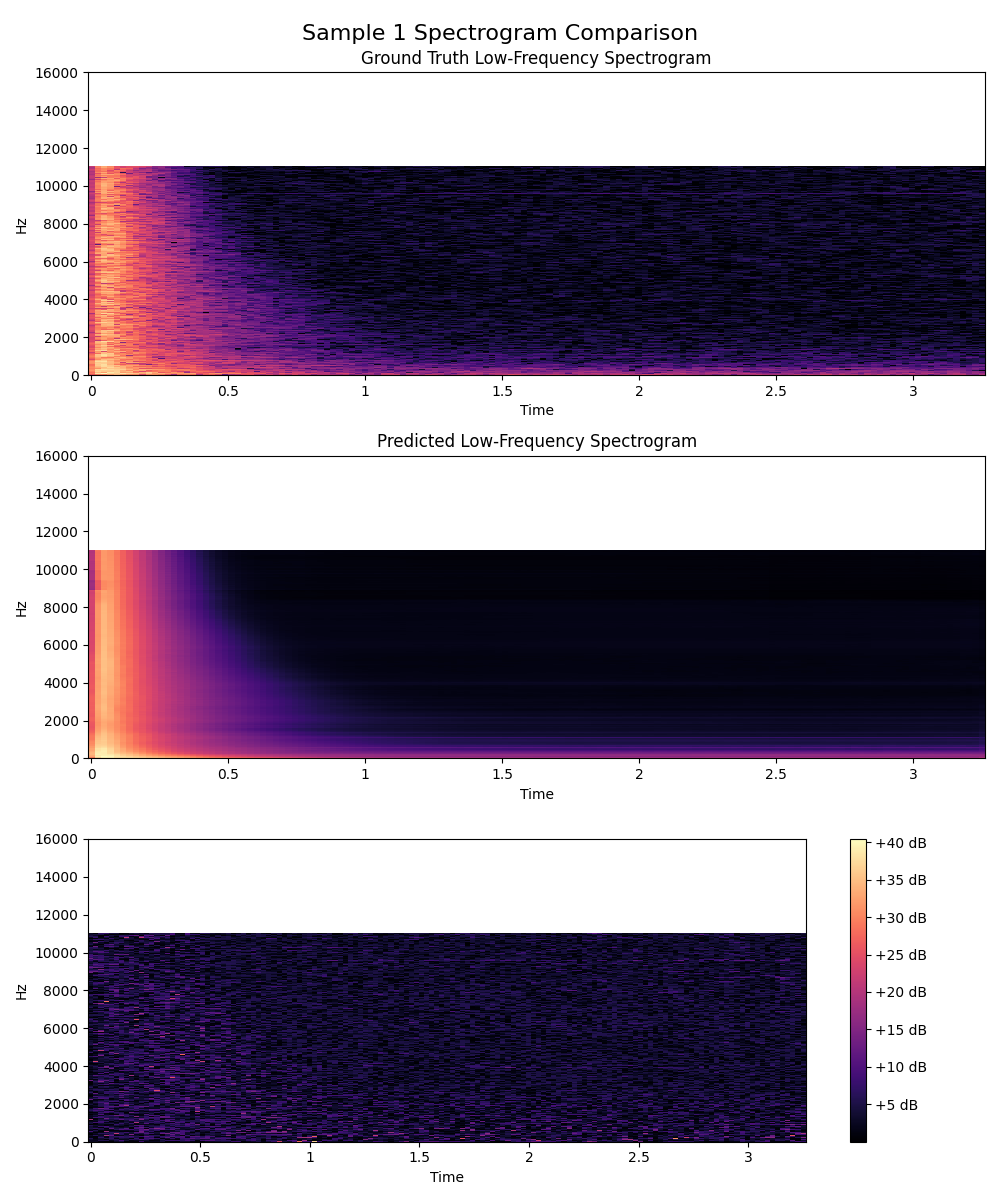
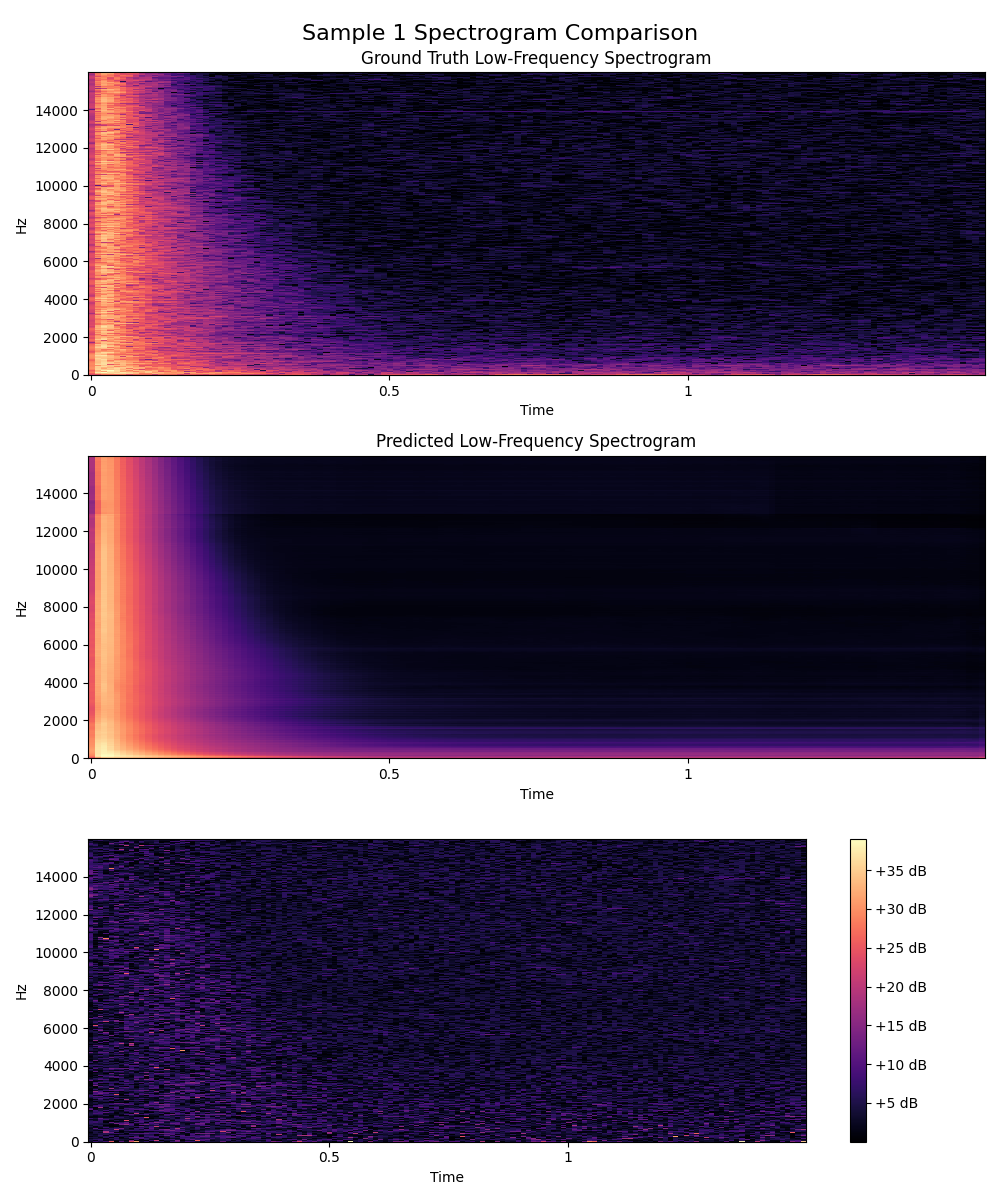
Fix output image size

diff --git a/test_single_visualization.py b/test_single_visualization.py
@@ -1,0 +1,121 @@
+import os
+import numpy as np
+import matplotlib.pyplot as plt
+import librosa
+import librosa.display
+import sys
+
+# --- 1. 配置 ---
+# 包含 '000036' 子文件夹的根目录
+BASE_DIR = '/home/jiayangli/Downloads/raf_dataset/archived/EmptyRoom/data'
+
+# ▼▼▼ 目标文件夹 ▼▼▼
+TARGET_FOLDER_NAME = '042735'
+
+# 输入文件名
+LOW_FREQ_FILENAME = 'low_freq_data.npy'
+HIGH_FREQ_FILENAME = 'high_freq_data.npy'
+
+# 新的输出文件名
+LOW_FREQ_OUTPUT_IMG = 'low_freq_spectrogram.png'
+HIGH_FREQ_OUTPUT_IMG = 'high_freq_spectrogram.png'
+
+# --- 2. 频谱图参数 (必须与 convert_spectrogram.py 保持一致) ---
+SAMPLE_RATE = 48000
+N_FFT = 2048
+HOP_LENGTH = 512
+SPLIT_FREQ_HZ = 16000
+
+# --- 3. 预先计算频率坐标轴 (关键！) ---
+print("Calculating frequency bins...")
+FREQS = librosa.fft_frequencies(sr=SAMPLE_RATE, n_fft=N_FFT)
+# 找到分割点
+SPLIT_INDEX = np.argmin(np.abs(FREQS - SPLIT_FREQ_HZ))
+
+# 为两个图分别创建坐标
+LOW_FREQ_COORDS = FREQS[:SPLIT_INDEX]
+HIGH_FREQ_COORDS = FREQS[SPLIT_INDEX:]
+print(f"Data split at index {SPLIT_INDEX} (~{FREQS[SPLIT_INDEX]:.0f} Hz)")
+
+def process_folder(folder_path):
+    """
+    在单个文件夹中加载 .npy 文件, 并为每个文件保存一张图像。
+    """
+    # 定义所有文件的路径
+    low_freq_path = os.path.join(folder_path, LOW_FREQ_FILENAME)
+    high_freq_path = os.path.join(folder_path, HIGH_FREQ_FILENAME)
+    low_output_path = os.path.join(folder_path, LOW_FREQ_OUTPUT_IMG)
+    high_output_path = os.path.join(folder_path, HIGH_FREQ_OUTPUT_IMG)
+
+    try:
+        # --- 检查文件 ---
+        if not (os.path.exists(low_freq_path) and os.path.exists(high_freq_path)):
+            print(f"Error: Input files not found in {folder_path}")
+            return False
+
+        # --- 绘制并保存 低频图 ---
+        print(f"Processing {LOW_FREQ_FILENAME}...")
+        low_data = np.load(low_freq_path)
+        
+        plt.figure(figsize=(10, 4))
+        librosa.display.specshow(low_data, 
+                                 y_coords=LOW_FREQ_COORDS,
+                                 y_axis='hz', 
+                                 x_axis='time',
+                                 sr=SAMPLE_RATE, 
+                                 hop_length=HOP_LENGTH)
+        
+        plt.colorbar(format='%+2.0f dB')
+        plt.title(f'Low Freq (0 - {SPLIT_FREQ_HZ/1000:.0f}kHz): {os.path.basename(folder_path)}')
+        plt.tight_layout()
+        plt.savefig(low_output_path)
+        plt.close()
+        print(f"Saved: {low_output_path}")
+
+        # --- 绘制并保存 高频图 ---
+        print(f"Processing {HIGH_FREQ_FILENAME}...")
+        high_data = np.load(high_freq_path)
+
+        plt.figure(figsize=(10, 4))
+        librosa.display.specshow(high_data, 
+                                 y_coords=HIGH_FREQ_COORDS,
+                                 y_axis='hz', 
+                                 x_axis='time',
+                                 sr=SAMPLE_RATE, 
+                                 hop_length=HOP_LENGTH)
+        
+        plt.colorbar(format='%+2.0f dB')
+        plt.title(f'High Freq ({SPLIT_FREQ_HZ/1000:.0f}kHz+): {os.path.basename(folder_path)}')
+        plt.tight_layout()
+        plt.savefig(high_output_path)
+        plt.close()
+        print(f"Saved: {high_output_path}")
+        
+        return True
+
+    except Exception as e:
+        print(f"Error processing {folder_path}: {e}")
+        return False
+
+def main():
+    print(f"--- Starting Single Folder Visualization Test ---")
+    print(f"Target Folder: {TARGET_FOLDER_NAME}")
+    
+    # 构建目标文件夹的完整路径
+    folder_path = os.path.join(BASE_DIR, TARGET_FOLDER_NAME)
+    
+    # 检查目标文件夹是否存在
+    if not os.path.isdir(folder_path):
+        print(f"ERROR: Target folder not found at: '{folder_path}'")
+        sys.exit(1) # 退出脚本
+        
+    # 处理这一个文件夹
+    success = process_folder(folder_path)
+    
+    if success:
+        print("\n--- Visualization complete! ---")
+    else:
+        print("\n--- Visualization failed. ---")
+
+if __name__ == '__main__':
+    main()

diff --git a/model.py b/model.py
@@ -24,9 +24,9 @@ class UNet(nn.Module):
         self.in_channels = in_channels
         self.out_channels = out_channels
 
-        # 编码器 (下采样路径)
+        # encoder(downsampling path)
         self.down1 = DoubleConv(in_channels, 64)
-        self.pool1 = nn.MaxPool2d(2) # 尺寸减半
+        self.pool1 = nn.MaxPool2d(2) # half the size
         self.down2 = DoubleConv(64, 128)
         self.pool2 = nn.MaxPool2d(2)
         self.down3 = DoubleConv(128, 256)
@@ -34,10 +34,10 @@ class UNet(nn.Module):
         self.down4 = DoubleConv(256, 512)
         self.pool4 = nn.MaxPool2d(2)
 
-        # 瓶颈层 (U形的底部)
+        # bottleneck(bottom layer)
         self.bottleneck = DoubleConv(512, 1024)
 
-        # 解码器 (上采样路径)
+        # decoder(upsampling path)
         self.up1 = nn.ConvTranspose2d(1024, 512, kernel_size=2, stride=2)
         self.up_conv1 = DoubleConv(1024, 512) # 512(from up1) + 512(from skip) = 1024
         
@@ -50,12 +50,18 @@ class UNet(nn.Module):
         self.up4 = nn.ConvTranspose2d(128, 64, kernel_size=2, stride=2)
         self.up_conv4 = DoubleConv(128, 64) # 64 + 64 = 128
 
-        # 最终输出层
-        self.out_conv = nn.Conv2d(64, out_channels, kernel_size=1)
+        # final output layer
+        # self.out_conv = nn.Conv2d(64, out_channels, kernel_size=1)
+        # extend from H=342 to H=863
+        self.extrapolation_block = nn.Sequential(
+            nn.ConvTranspose2d(64, 32, kernel_size=3, stride=(2, 1), padding=1),
+            nn.ReLU(inplace=True),
+            nn.Conv2d(32, out_channels, kernel_size=1)
+        )
 
     def forward(self, x):
-        # 编码
-        # 保存每一层池化前的输出，用于跳跃连接
+        # encoder
+        # save the output before each pooling layer for skip connections
         skip1 = self.down1(x)
         d1 = self.pool1(skip1)
         
@@ -68,16 +74,15 @@ class UNet(nn.Module):
         skip4 = self.down4(d3)
         d4 = self.pool4(skip4)
         
-        # 瓶颈
+        # bottleneck
         b = self.bottleneck(d4)
         
-        # 解码 + 跳跃连接
+        # decoder + skip connections
         u1 = self.up1(b)
-        # 如果上采样后尺寸和跳跃连接的特征图有1个像素的差异，需要进行裁剪或填充
-        # 这里使用 F.interpolate 是更现代、更稳妥的做法
+        # if upsampled size differs by 1 pixel from skip connection, we need to crop or pad
         if u1.shape != skip4.shape:
             u1 = F.interpolate(u1, size=skip4.shape[2:], mode='bilinear', align_corners=True)
-        cat1 = torch.cat([skip4, u1], dim=1) # 在通道维度上拼接
+        cat1 = torch.cat([skip4, u1], dim=1) # oncatenate at the channel dimension
         uc1 = self.up_conv1(cat1)
 
         u2 = self.up2(uc1)
@@ -98,5 +103,5 @@ class UNet(nn.Module):
         cat4 = torch.cat([skip1, u4], dim=1)
         uc4 = self.up_conv4(cat4)
         
-        return self.out_conv(uc4)
+        return self.extrapolation_block(uc4)
 

diff --git a/evaluate.py b/evaluate.py
@@ -18,6 +18,19 @@ OUTPUT_DIR = "evaluation_outputs"
 
 os.makedirs(OUTPUT_DIR, exist_ok=True)
 
+SAMPLE_RATE = 48000
+N_FFT = 2048
+HOP_LENGTH = 512
+SPLIT_FREQ_HZ = 16000
+
+# Pre-calculate y-axis frequency bins for plotting
+print("Calculating frequency bins...")
+FREQS = librosa.fft_frequencies(sr=SAMPLE_RATE, n_fft=N_FFT)
+SPLIT_INDEX = np.argmin(np.abs(FREQS - SPLIT_FREQ_HZ))
+LOW_FREQ_COORDS = FREQS[:SPLIT_INDEX] # 0-16kHz
+print(f"Plotting with {len(LOW_FREQ_COORDS)} frequency bins up to ~{FREQS[SPLIT_INDEX]:.0f} Hz")
+
+
 all_indices = list(range(47484))
 train_split = int(0.8 * len(all_indices))
 val_split = int(0.9 * len(all_indices))
@@ -57,6 +70,7 @@ print("Generating visual comparison plots...")
 with torch.no_grad():
     for i in range(5):
         high_freq, low_freq_truth = test_dataset[i]
+        print(f"Loading Test Sample {i}: Ground Truth .npy shape is: {low_freq_truth.shape}")
         high_freq_input = high_freq.unsqueeze(0).to(DEVICE)
         low_freq_pred = model(high_freq_input)
         if low_freq_pred.shape != low_freq_truth.unsqueeze(0).shape:
@@ -67,17 +81,17 @@ with torch.no_grad():
         fig, (ax1, ax2, ax3) = plt.subplots(3, 1, figsize=(10, 12))
         fig.suptitle(f'Sample {i} Spectrogram Comparison', fontsize=16)
 
-        librosa.display.specshow(truth_np, ax=ax1, y_axis='linear', x_axis='time')
+        librosa.display.specshow(truth_np, ax=ax1, y_coords=LOW_FREQ_COORDS, y_axis='hz', x_axis='time', sr=SAMPLE_RATE, hop_length=HOP_LENGTH)
         ax1.set_title('Ground Truth Low-Frequency Spectrogram')
-        ax1.set_ylim(0, 16000)
+        # ax1.set_ylim(0, 16000)
 
-        librosa.display.specshow(pred_np, ax=ax2, y_axis='linear', x_axis='time')
+        librosa.display.specshow(pred_np, ax=ax2, y_coords=LOW_FREQ_COORDS, y_axis='hz', x_axis='time', sr=SAMPLE_RATE, hop_length=HOP_LENGTH)
         ax2.set_title('Predicted Low-Frequency Spectrogram')
-        ax2.set_ylim(0, 16000)
+        # ax2.set_ylim(0, 16000)
 
         error_map = np.abs(truth_np - pred_np)
-        img = librosa.display.specshow(error_map, ax=ax3, y_axis='linear', x_axis='time')
-        ax3.set_ylim(0, 16000)
+        img = librosa.display.specshow(error_map, ax=ax3, y_coords=LOW_FREQ_COORDS, y_axis='hz', x_axis='time', sr=SAMPLE_RATE, hop_length=HOP_LENGTH)
+        # ax3.set_ylim(0, 16000)
         fig.colorbar(img, ax=ax3, format="%+2.0f dB")
 
         plt.tight_layout()

diff --git a/README.md b/README.md
@@ -25,6 +25,6 @@ Epoch: 25
 Learning rate: 1e-4
 
 ### Result
-![alt text](sample_0_comparison.png)
+![alt text](evaluation_outputs/sample_0_comparison.png)
 
 The Average MSE on test dataset is 24.5, which means on average, our model's prediction at any (time, frequency) point will deviate from the true value by ~5 dB. This is a good start as using RIR alone to train the model.
